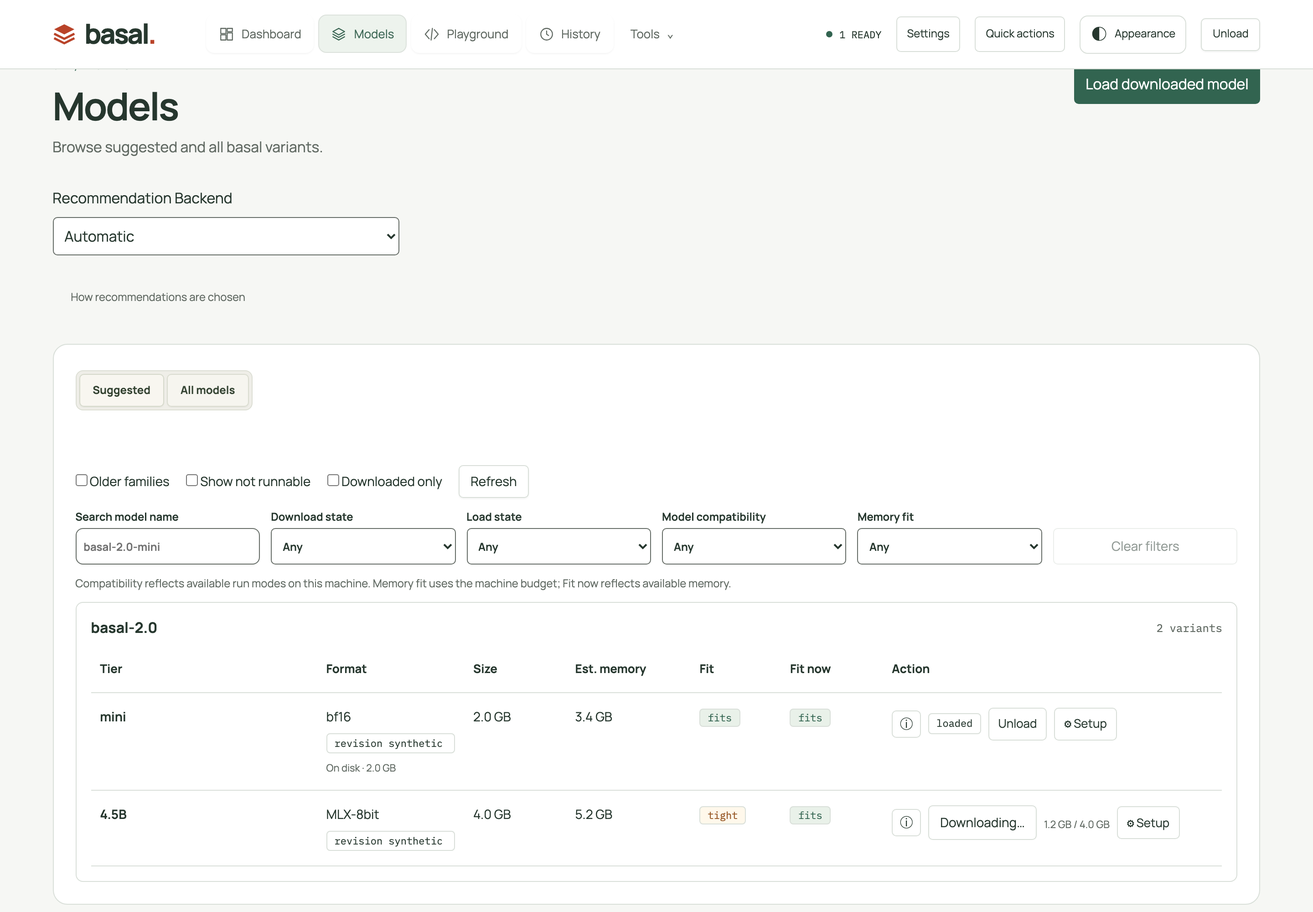
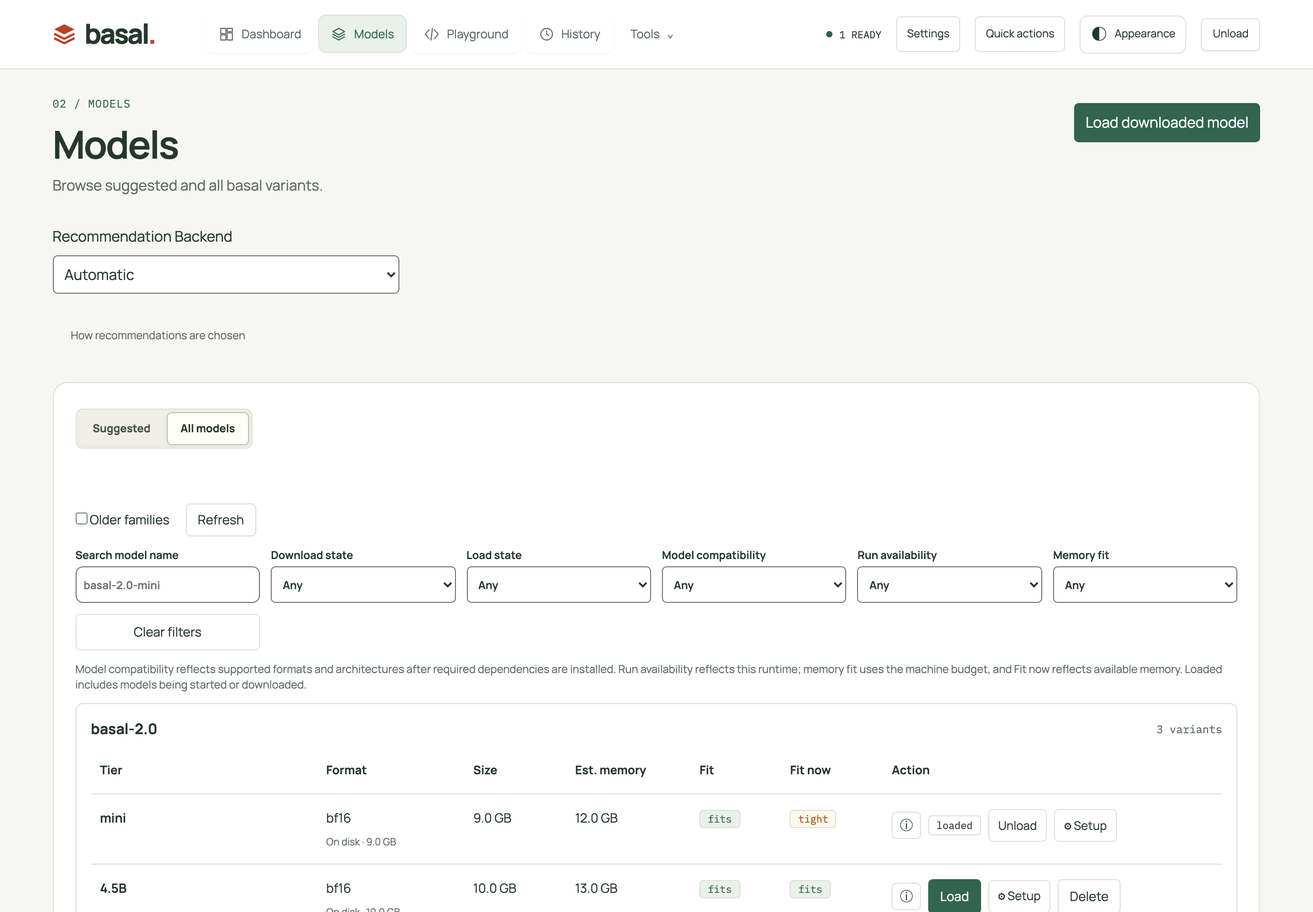
fix(models): separate compatibility from availability

diff --git a/basal_ui/static/index.html b/basal_ui/static/index.html
@@ -47,7 +47,7 @@
 <section class="view" id="dashboard" data-page="dashboard" aria-label="Dashboard"></section>
 <section class="view" id="overview" data-page="overview"><div id="updatesBanner"></div><section id="hardware" class="card hardware" aria-label="Hardware"><div><div class="section-index">HARDWARE</div><div id="deviceName" class="hardware-name">Detecting hardware…</div><div id="engines" class="chips"></div></div><div class="hardware-grid"><div class="metric"><label>Platform</label><strong id="platform">—</strong></div><div class="metric"><label>Memory budget</label><strong id="hardwareBudget">—</strong></div><div class="metric"><label>Available now</label><strong id="availableMemory">—</strong></div><div class="metric"><label>System RAM</label><strong id="systemRam">—</strong></div></div></section></section>
 <div class="view recommendation-controls" data-page="models"><label for="recommendationBackend">Recommendation Backend</label><select id="recommendationBackend"><option value="automatic">Automatic</option></select><details class="manager-help"><summary>How recommendations are chosen</summary><p>Recommendations consider machine compatibility, installed Backends, model architecture and format, estimated memory, and available memory now. They prefer official current-family checkpoints and comfortable fits; community and experimental text variants remain in All models.</p><p id="recommendationMethod">Recommendation slots use catalog format and tier heuristics, not measured benchmarks. Best quality means the largest fitting tier; fastest means the smallest tier.</p><p>Multimodal recommendations show image/audio capabilities and missing add-ons. Install required add-ons in Backends before loading with media. Saved load settings are not changed by the recommendation Backend.</p></details></div>
-<section class="view" id="models" data-page="models"><section class="card"><div class="tabs" role="tablist"><button class="btn active" id="suggestedTab" role="tab" aria-controls="suggested" aria-selected="true" data-variant="outline">Suggested</button><button class="btn" id="allModelsTab" role="tab" aria-controls="allModels" aria-selected="false" tabindex="-1" data-variant="outline">All models</button></div><div id="suggested" role="tabpanel" aria-labelledby="suggestedTab"><div class="empty">Loading suggestions…</div></div><div id="allModels" role="tabpanel" aria-labelledby="allModelsTab" hidden><div class="model-filters"><div class="controls model-filter-toggles"><label><input class="switch" id="olderToggle" type="checkbox"> Older families</label><label><input class="switch" id="notRunnableToggle" type="checkbox"> Show not runnable</label><label><input class="switch" id="downloadedToggle" type="checkbox"> Downloaded only</label><button class="btn" id="refreshModels" data-variant="outline">Refresh</button></div><div class="model-filter-fields"><div class="model-filter-control"><label for="modelSearch">Search model name</label><input class="input" id="modelSearch" type="search" placeholder="basal-2.0-mini" autocomplete="off"></div><div class="model-filter-control"><label for="modelDownloadFilter">Download state</label><select id="modelDownloadFilter"><option value="">Any</option><option value="downloaded">Downloaded</option><option value="downloading">Downloading…</option><option value="not-downloaded">Not downloaded</option></select></div><div class="model-filter-control"><label for="modelLoadFilter">Load state</label><select id="modelLoadFilter"><option value="">Any</option><option value="loaded">Loaded</option><option value="not-loaded">Not loaded</option></select></div><div class="model-filter-control"><label for="modelCompatibilityFilter">Model compatibility</label><select id="modelCompatibilityFilter"><option value="">Any</option><option value="runnable">Runnable here</option><option value="unavailable">Unavailable here</option></select></div><div class="model-filter-control"><label for="modelFitFilter">Memory fit</label><select id="modelFitFilter"><option value="">Any</option><option value="fits">Fits</option><option value="tight">Tight fit</option><option value="too_large">Too large</option><option value="unknown">Unknown</option></select></div><button class="btn outline-action" id="clearModelFilters" type="button" disabled>Clear filters</button></div><p class="model-filter-note muted">Compatibility reflects available run modes on this machine. Memory fit uses the machine budget; Fit now reflects available memory.</p></div><div id="backendModelFilterNotice" class="controls" hidden><span></span><button type="button" id="clearBackendModelFilter">Show all backends</button></div><div id="modelsTable" class="table-wrap"><div class="empty">Loading models…</div></div></div></section></section>
+<section class="view" id="models" data-page="models"><section class="card"><div class="tabs" role="tablist"><button class="btn active" id="suggestedTab" role="tab" aria-controls="suggested" aria-selected="true" data-variant="outline">Suggested</button><button class="btn" id="allModelsTab" role="tab" aria-controls="allModels" aria-selected="false" tabindex="-1" data-variant="outline">All models</button></div><div id="suggested" role="tabpanel" aria-labelledby="suggestedTab"><div class="empty">Loading suggestions…</div></div><div id="allModels" role="tabpanel" aria-labelledby="allModelsTab" hidden><div class="model-filters"><div class="controls model-filter-toggles"><label><input class="switch" id="olderToggle" type="checkbox"> Older families</label><button class="btn" id="refreshModels" data-variant="outline">Refresh</button></div><div class="model-filter-fields"><div class="model-filter-control"><label for="modelSearch">Search model name</label><input class="input" id="modelSearch" type="search" placeholder="basal-2.0-mini" autocomplete="off"></div><div class="model-filter-control"><label for="modelDownloadFilter">Download state</label><select id="modelDownloadFilter"><option value="">Any</option><option value="downloaded">Downloaded</option><option value="downloading">Downloading…</option><option value="not-downloaded">Not downloaded</option></select></div><div class="model-filter-control"><label for="modelLoadFilter">Load state</label><select id="modelLoadFilter"><option value="">Any</option><option value="loaded">Loaded</option><option value="not-loaded">Not loaded</option></select></div><div class="model-filter-control"><label for="modelCompatibilityFilter">Model compatibility</label><select id="modelCompatibilityFilter"><option value="">Any</option><option value="compatible">Compatible</option><option value="incompatible">Not compatible</option></select></div><div class="model-filter-control"><label for="modelRunAvailabilityFilter">Run availability</label><select id="modelRunAvailabilityFilter"><option value="available" selected>Available now</option><option value="unavailable">Unavailable now</option><option value="any">Any</option></select></div><div class="model-filter-control"><label for="modelFitFilter">Memory fit</label><select id="modelFitFilter"><option value="">Any</option><option value="fits">Fits</option><option value="tight">Tight fit</option><option value="too_large">Too large</option><option value="unknown">Unknown</option></select></div><button class="btn outline-action" id="clearModelFilters" type="button" disabled>Clear filters</button></div><p class="model-filter-note muted">Model compatibility reflects supported formats and architectures after required dependencies are installed. Run availability reflects this runtime; memory fit uses the machine budget, and Fit now reflects available memory. Loaded includes models being started or downloaded.</p></div><div id="backendModelFilterNotice" class="controls" hidden><span></span><button type="button" id="clearBackendModelFilter">Show all backends</button></div><div id="modelsTable" class="table-wrap"><div class="empty">Loading models…</div></div></div></section></section>
 <section class="view" id="manager" data-page="manager"><div class="manager-summary"><span id="managerLoadedCount">— loaded</span><span id="managerDiskCount">— downloaded</span><span id="managerDiskBytes">— on disk</span></div><div class="manager-tabs" role="tablist" aria-label="Model manager"><button type="button" role="tab" id="manager-tab-library" data-manager-tab="library" aria-controls="manager-library" aria-selected="true">Library</button><button type="button" role="tab" id="manager-tab-usage" data-manager-tab="usage" aria-controls="manager-usage" aria-selected="false" tabindex="-1">Usage by model</button><button type="button" role="tab" id="manager-tab-benchmarks" data-manager-tab="benchmarks" aria-controls="manager-benchmarks" aria-selected="false" tabindex="-1">Benchmarks</button><button type="button" role="tab" id="manager-tab-calibration" data-manager-tab="calibration" aria-controls="manager-calibration" aria-selected="false" tabindex="-1">Calibration</button></div>
 <section class="manager-panel" id="manager-library" role="tabpanel" aria-labelledby="manager-tab-library"><section class="card" id="inference" aria-live="polite"><div class="section-index">INFERENCE</div><div id="inferenceNow"><div class="inference-row idle"><span class="status-dot"></span><span class="muted">Idle</span></div></div></section><section class="card" id="status" aria-live="polite"><div class="section-head"><h2>Loaded models</h2></div><div id="memoryBar"></div><div id="loadedModels"><div class="empty">No model loaded</div></div></section><section class="card" id="attachCard" hidden><div class="section-head"><h2>Attach a model</h2></div><p class="muted">Attach a supported chat model to serve it through the Engine.</p><p id="attachUnavailable" class="muted" hidden>Attached models need Engine 2.5.</p><div class="controls" id="attachControls"><button type="button" id="openAttach" class="btn primary">Attach a chat model</button><button type="button" id="cancelAttach" class="btn" hidden>Cancel</button><a href="#logs/job%3Aattach">Logs</a></div><div id="attachJob" class="muted" aria-live="polite"></div><p id="attachRecovery" class="reason directory-hint" role="status" hidden></p></section><section class="card" id="decisionServers"><h2>Decision servers</h2><p class="muted">Attach a server to compare its models in Playground and Batch.</p><form id="decisionServerForm"><div class="serve-fields"><div class="field"><label for="decisionServerName">Name</label><input class="input" id="decisionServerName" required autocomplete="off"></div><div class="field"><label for="decisionServerUrl">Server URL</label><input class="input" id="decisionServerUrl" type="url" required autocomplete="url" placeholder="http://127.0.0.1:11434"></div><div class="field"><label for="decisionServerKey">API key (optional)</label><input class="input" id="decisionServerKey" type="password" autocomplete="new-password"></div></div><label id="decisionServerConsentField" hidden><input id="decisionServerConsent" type="checkbox"> <span id="decisionServerConsentText"></span></label><button type="submit" id="addDecisionServer">Attach Decision server</button><p id="decisionServerError" class="error-box" role="alert" tabindex="-1" hidden></p></form><div id="decisionServerList"></div></section><section class="card disk-list"><div class="section-head"><h2>On disk</h2></div><div id="diskModels"><div class="empty">Loading models…</div></div><div id="diskTotal" class="disk-total"></div></section></section>
 <section class="manager-panel card" id="manager-usage" role="tabpanel" aria-labelledby="manager-tab-usage" hidden><div class="manager-panel-heading"><div><h2>Usage by model</h2><p>Live counters for recorded Decisions.</p></div></div><p class="manager-usage-note">Lifetime usage is shared with Dashboard’s model activity. Recent traffic is a separate process-local window; viewing either page does not add requests.</p><div id="statsTable"></div><p class="manager-reset-note">Resetting a model or all statistics also clears matching recent traffic in this app process. Lifetime totals are shared across apps using the same settings file.</p></section>

diff --git a/basal_ui/static/app.js b/basal_ui/static/app.js
@@ -152,23 +152,23 @@ function renderModels(data) {
   const suggestions = data.suggestions || [];
   renderSuggestions(suggestions);
   const slots = new Map(suggestions.map(s => [s.id, s.slot]));
-  const older = $('#olderToggle').checked, showBad = $('#notRunnableToggle').checked, downloadedOnly = $('#downloadedToggle').checked;
+  const older = $('#olderToggle').checked, runAvailabilityFilter = $('#modelRunAvailabilityFilter').value;
   const query=$('#modelSearch').value.trim().toLowerCase(), downloadFilter=$('#modelDownloadFilter').value,
     loadFilter=$('#modelLoadFilter').value, compatibilityFilter=$('#modelCompatibilityFilter').value, fitFilter=$('#modelFitFilter').value;
-  const activeFilters=Boolean(query||downloadFilter||loadFilter||compatibilityFilter||fitFilter||older||showBad||downloadedOnly);
+  const activeFilters=Boolean(query||downloadFilter||loadFilter||compatibilityFilter||fitFilter||older||runAvailabilityFilter!=='available');
   $('#clearModelFilters').disabled=!activeFilters;
   const list = modelData.filter(m => {
-    const download=statusCache?.downloads?.[m.repo], downloading=statusCache?Boolean(download&&!download.error):null;
-    const loaded=statusCache?statusCache.models.some(x=>x.id===m.id):null;
-    const compatible=typeof m.runnable==='boolean'?(m.runnable||Boolean(m.media_mode)):m.media_mode?true:null;
+    const download=statusAvailable?statusCache?.downloads?.[m.repo]:null, downloading=statusAvailable?Boolean(download&&!download.error):null;
+    const loaded=statusAvailable?statusCache?.models.some(x=>x.id===m.id):null;
+    const compatible=m.model_compatible;
+    const runAvailable=Boolean(m.runnable||m.media_mode);
     return (!backendModelFilter||backendModelFilter.ids.has(m.id))
       && (older || !['basal-1.0','basal-1.5'].includes(m.family))
-      && (showBad || compatibilityFilter==='unavailable' || compatible)
-      && (!downloadedOnly || m.downloaded)
+      && (runAvailabilityFilter==='any' || runAvailable===(runAvailabilityFilter==='available'))
       && (!query || [m.id,m.repo,m.family,m.tier,m.label].some(value=>String(value||'').toLowerCase().includes(query)))
       && (!downloadFilter || (downloadFilter==='downloaded'?m.downloaded:downloadFilter==='downloading'?downloading===true:m.downloaded===false&&downloading===false))
       && (!loadFilter || (loadFilter==='loaded'?loaded===true:loaded===false))
-      && (!compatibilityFilter || (compatibilityFilter==='runnable'?compatible===true:compatible===false))
+      && (!compatibilityFilter || (compatibilityFilter==='compatible'?compatible===true:compatible===false))
       && (!fitFilter || (m.fit||'unknown')===fitFilter);
   });
   list.sort((a,b) => familyOrder(b.family)-familyOrder(a.family) || tierOrder(a.tier)-tierOrder(b.tier) || a.port.localeCompare(b.port));
@@ -186,9 +186,9 @@ function renderModels(data) {
       const slot = slots.get(m.id);
       const mediaReasonText = ts(m.media_reason, m.media_reason_code, m.media_reason_params);
       const mediaReason = !m.media_mode && (m.media || []).length ? `<small class="muted">${esc(mediaReasonText || '')}</small>` : '';
-      const downloadStatus=statusCache?.downloads?.[m.repo], loaded=statusCache?.models?.find(x=>x.id===m.id);
+      const downloadStatus=statusAvailable?statusCache?.downloads?.[m.repo]:null, loaded=statusAvailable?statusCache?.models?.find(x=>x.id===m.id):null;
       const downloadButton=downloadControl(m,downloadStatus);
-      const actions=`${m.downloaded?diskActions(m,false):m.attached?'':downloadButton}${m.runnable&&(!m.attached||m.downloaded)?optionsButton(m.id,false,'save'):''}${m.attached?`<button type="button" class="remove-attached destructive" data-id="${esc(m.id)}">${t('Remove')}</button>`:!loaded&&m.downloaded?deleteButton(m.id):''}`;
+      const actions=`${m.downloaded?diskActions(m,false):m.attached?'':downloadButton}${m.runnable&&(!m.attached||m.downloaded)?optionsButton(m.id,false,'save'):''}${m.attached?`<button type="button" class="remove-attached destructive" data-id="${esc(m.id)}">${t('Remove')}</button>`:statusAvailable&&!loaded&&m.downloaded?deleteButton(m.id):''}`;
       html += `<tr class="${m.runnable||m.media_mode?'':'not-runnable'}"><td class="model-tier"><span class="model-name">${esc(m.tier)}</span>${reason}${mediaReason}</td><td class="model-format">${esc(m.label)} ${m.attached?`<span class="chip">${t('Attached')}</span>`:''}${m.community?`<span class="chip">${t('community')}</span>`:''}${m.revision?`<span class="chip">${t('revision {revision}',{revision:esc(m.revision)})}</span>`:''}${m.downloaded?`<small class="model-downloaded muted">${t('On disk')}${m.downloaded_bytes==null?'':` · ${gb(m.downloaded_bytes)}`}</small>`:''}</td><td class="model-size">${gb(m.weights_bytes)}</td><td class="model-size">${gb(m.est_memory_bytes)}</td><td><span class="badge ${classes}">${esc(t(m.fit || 'unknown'))}</span></td><td><span class="badge ${nowClasses}">${esc(t(m.fit_now || 'unknown'))}</span></td><td><div class="model-actions"><button type="button" class="model-card-open" data-id="${esc(m.id)}" aria-label="${t('Model information')}">ⓘ</button>${actions}</div></td></tr>`;
     }
     html += '</tbody></table></div></section>';
@@ -272,7 +272,7 @@ function idleUnloadText(reason){return reason?.code==='idle_unload'?`<span class
 function idleUnloadMessage(reason){return tp(reason.minutes,'Unloaded after {n} idle minute at {time}','Unloaded after {n} idle minutes at {time}',{time:new Date(reason.at*1000).toLocaleString()});}
 // Model manager: load (text or media, or with options) and unload the models on disk
 function diskActions(m, details=true) {
-  const loaded=statusCache?.models?.find(x=>x.id===m.id);
+  const loaded=statusAvailable?statusCache?.models?.find(x=>x.id===m.id):null;
   if(loaded)return `<span class="chip">${esc(t(loaded.state==='ready'?'loaded':loaded.state))}</span><button type="button" class="unload-model outline-action" data-id="${esc(m.id)}">${t('Unload')}</button>`;
   if(!m.runnable&&!m.media_mode){const reason=ts(m.reason,m.reason_code,m.reason_params)||t('not runnable here');return `<span class="reason" title="${esc(reason)}">${esc(reason)}</span>`;}
   const media=m.media_mode?`<button type="button" class="load-model load-media-model" data-id="${esc(m.id)}" data-media="true" title="${esc(mediaTitle(m.media||[]))}">${t('Load with media')}</button>`:'';
@@ -593,7 +593,7 @@ async function refreshStatus() {
     const status = await api('/api/status');
     if (sequence === statusSequence) { statusFailureNotified=false; renderStatus(status); if (serveData) renderServeStatus(status); if(!$('#dashboard').hidden)refreshTraffic(); }
   } catch(e) {
-    if (sequence === statusSequence) { statusAvailable=false; $('#footerState').textContent=t('Unavailable'); $('#footerDot').className='status-dot error'; if(!statusFailureNotified){showStatusError(e.message);statusFailureNotified=true;} trafficError=e.message; trafficData=null; trafficGeneration++; trafficPending=false; renderDashboard(); clearTimeout(pollTimer); pollTimer=setTimeout(refreshStatus,5000); }
+    if (sequence === statusSequence) { statusAvailable=false; rerenderFilters(); $('#footerState').textContent=t('Unavailable'); $('#footerDot').className='status-dot error'; if(!statusFailureNotified){showStatusError(e.message);statusFailureNotified=true;} trafficError=e.message; trafficData=null; trafficGeneration++; trafficPending=false; renderDashboard(); clearTimeout(pollTimer); pollTimer=setTimeout(refreshStatus,5000); }
   }
 }
 async function loadExamples() {
@@ -1631,7 +1631,6 @@ async function sendDecision() {
 }
 $('#refreshModels').addEventListener('click',()=>loadModels(true));
 $('#recommendationBackend').onchange=event=>{recommendationBackend=event.target.value;loadModels();};
-$('#downloadedToggle').addEventListener('change',rerenderFilters);
 $('#saveModelsDir').addEventListener('click',()=>saveModelsDir($('#modelsDir').value));
 $('#defaultModelsDir').addEventListener('click',()=>saveModelsDir(null));
 let catalogData=null;
@@ -1639,12 +1638,12 @@ const originalRenderModels=renderModels;
 renderModels=function(data){catalogData=data; originalRenderModels(data);};
 function rerenderFilters(){if(catalogData&&catalogData.recommendation_backend===recommendationBackend) originalRenderModels(catalogData);}
 $('#olderToggle').addEventListener('change',rerenderFilters);
-$('#notRunnableToggle').addEventListener('change',rerenderFilters);
-['modelSearch','modelDownloadFilter','modelLoadFilter','modelCompatibilityFilter','modelFitFilter'].forEach(id=>{$(`#${id}`).addEventListener(id==='modelSearch'?'input':'change',rerenderFilters);});
+['modelSearch','modelDownloadFilter','modelLoadFilter','modelCompatibilityFilter','modelRunAvailabilityFilter','modelFitFilter'].forEach(id=>{$(`#${id}`).addEventListener(id==='modelSearch'?'input':'change',rerenderFilters);});
 function clearModelFilters(){
   $('#modelSearch').value=''; $('#modelDownloadFilter').value=''; $('#modelLoadFilter').value='';
-  $('#modelCompatibilityFilter').value=''; $('#modelFitFilter').value='';
-  ['olderToggle','notRunnableToggle','downloadedToggle'].forEach(id=>setChecked($(`#${id}`),false));
+  $('#modelCompatibilityFilter').value=''; $('#modelRunAvailabilityFilter').value='available'; $('#modelFitFilter').value='';
+  setChecked($('#olderToggle'),false);
+  backendModelFilter=null; $('#backendModelFilterNotice').hidden=true;
   rerenderFilters(); $('#modelSearch').focus();
 }
 $('#clearModelFilters').addEventListener('click',clearModelFilters);

diff --git a/basal_ui/static/i18n.js b/basal_ui/static/i18n.js
@@ -1353,9 +1353,14 @@ const PL = {
   "Runnable here": "Można uruchomić tutaj",
   "Unknown": "Nieznany",
   "Model compatibility": "Zgodność modelu",
+  "Compatible": "Zgodny",
+  "Not compatible": "Niezgodny",
+  "Run availability": "Dostępność uruchomienia",
+  "Available now": "Dostępny teraz",
+  "Unavailable now": "Niedostępny teraz",
   "Memory fit": "Dopasowanie pamięci",
   "Clear filters": "Wyczyść filtry",
-  "Compatibility reflects available run modes on this machine. Memory fit uses the machine budget; Fit now reflects available memory.": "Zgodność uwzględnia tryby dostępne na tym komputerze. Dopasowanie pamięci dotyczy budżetu komputera, a Dopasowanie teraz — dostępnej pamięci.",
+  "Model compatibility reflects supported formats and architectures after required dependencies are installed. Run availability reflects this runtime; memory fit uses the machine budget, and Fit now reflects available memory. Loaded includes models being started or downloaded.": "Zgodność modelu uwzględnia obsługiwane formaty i architektury po zainstalowaniu wymaganych zależności. Dostępność uruchomienia dotyczy tego środowiska; dopasowanie pamięci korzysta z budżetu komputera, a Dopasowanie teraz z dostępnej pamięci. Za załadowane uznaje się również modele uruchamiane lub pobierane.",
   "Unit": "Jednostka",
   "Unknown device": "Nieznane urządzenie",
   "Unload": "Zwolnij",

diff --git a/basal_ui/static/backends.js b/basal_ui/static/backends.js
@@ -100,7 +100,7 @@ $('#backendInventory').onclick=e=>{
     const b=backendInventory.backends.find(x=>x.id===models.dataset.backendModels);
     backendModelFilter={name:b.name,ids:new Set(b.models.map(m=>m.id))};
     $('#backendModelFilterNotice').hidden=false;$('#backendModelFilterNotice span').textContent=t('Models compatible with {name} after its dependencies are installed.',{name:b.name});
-    setChecked($('#olderToggle'),true);setChecked($('#notRunnableToggle'),true);setChecked($('#downloadedToggle'),false);
+    setChecked($('#olderToggle'),true);$('#modelRunAvailabilityFilter').value='any';
     rerenderFilters();showView('models',true);selectModelsTab('all');
   }
   if(test)act(()=>openBackendTest(test.dataset.backendTest));

diff --git a/tests/e2e/test_models_filters.py b/tests/e2e/test_models_filters.py
@@ -1,0 +1,143 @@
+"""Synthetic Chromium regression checks for Models catalog filters."""
+
+import signal
+import subprocess
+from pathlib import Path
+
+import pytest
+
+from tests.e2e.support import UI
+
+sync_api = pytest.importorskip("playwright.sync_api", reason="install basal[e2e] and run: playwright install chromium")
+
+
+@pytest.fixture
+def synthetic_ui(tmp_path: Path):
+    app = UI(tmp_path).start()
+    yield app
+    app.proc.send_signal(signal.SIGTERM)
+    try:
+        app.proc.wait(10)
+    except subprocess.TimeoutExpired:
+        app.proc.kill()
+        app.proc.wait()
+
+
+@pytest.fixture(scope="module")
+def browser():
+    with sync_api.sync_playwright() as playwright:
+        browser = playwright.chromium.launch()
+        yield browser
+        browser.close()
+
+
+def test_catalog_filters_keep_compatibility_and_status_distinct(browser, synthetic_ui: UI, request):
+    context = browser.new_context(viewport={"width": 1280, "height": 900})
+    request.addfinalizer(context.close)
+    page = context.new_page()
+    page.set_default_timeout(5_000)
+
+    models = [
+        {
+            "id": "missing-gguf",
+            "repo": "Synthetic/gguf",
+            "family": "basal-2.0",
+            "tier": "mini",
+            "port": "GGUF",
+            "label": "GGUF Q4",
+            "media": [],
+            "weights_bytes": 100,
+            "est_memory_bytes": 100,
+            "fit": "fits",
+            "fit_now": "fits",
+            "downloaded": True,
+            "downloaded_bytes": 100,
+            "runnable": False,
+            "model_compatible": True,
+        },
+        {
+            "id": "other-incompatible",
+            "repo": "Synthetic/other",
+            "family": "basal-2.0",
+            "tier": "small",
+            "port": "GGUF",
+            "label": "GGUF Q8",
+            "media": [],
+            "weights_bytes": 100,
+            "est_memory_bytes": 100,
+            "fit": "fits",
+            "fit_now": "fits",
+            "downloaded": False,
+            "runnable": False,
+            "model_compatible": False,
+        },
+        {
+            "id": "available",
+            "repo": "Synthetic/available",
+            "family": "basal-2.0",
+            "tier": "4.5B",
+            "port": "bf16",
+            "label": "bf16",
+            "media": [],
+            "weights_bytes": 100,
+            "est_memory_bytes": 100,
+            "fit": "fits",
+            "fit_now": "fits",
+            "downloaded": True,
+            "downloaded_bytes": 100,
+            "runnable": True,
+            "model_compatible": True,
+        },
+    ]
+    catalog = {
+        "recommendation_backend": "automatic",
+        "recommendation_backends": [{"id": "automatic", "name": "Automatic"}],
+        "recommendation_note": "",
+        "suggestions": [],
+        "models": models,
+    }
+    status = synthetic_ui.get("/api/status")
+    status.update(models=[{"id": "missing-gguf", "state": "starting"}], downloads={"Synthetic/gguf": {}})
+    page.route("**/api/models*", lambda route: route.fulfill(json=catalog))
+    page.route("**/api/status", lambda route: route.fulfill(json=status))
+    page.goto(synthetic_ui.url + "/")
+    page.wait_for_function("() => statusAvailable && modelData.length === 3")
+    page.evaluate("showView('models', true); selectModelsTab('all')")
+
+    ids = lambda: page.locator("#modelsTable .model-card-open").evaluate_all(
+        "nodes => nodes.map(node => node.dataset.id)"
+    )
+    assert ids() == ["available"]  # default visibility still hides models that cannot run now
+    page.select_option("#modelRunAvailabilityFilter", "unavailable")
+    page.select_option("#modelCompatibilityFilter", "compatible")
+    assert ids() == ["missing-gguf"]  # compatible format despite the absent llama.cpp package
+    page.select_option("#modelLoadFilter", "loaded")
+    assert ids() == ["missing-gguf"]  # starting entries count as loaded; the filter note explains this
+    page.select_option("#modelDownloadFilter", "downloading")
+    assert ids() == ["missing-gguf"]
+
+    page.route("**/api/status", lambda route: route.abort())
+    page.evaluate("refreshStatus()")
+    page.wait_for_function("() => !statusAvailable")
+    page.select_option("#modelLoadFilter", "loaded")
+    assert ids() == []  # failed polling makes the retained status snapshot unknown, not current
+    page.select_option("#modelDownloadFilter", "downloading")
+    assert ids() == []
+    page.select_option("#modelDownloadFilter", "not-downloaded")
+    assert ids() == []
+    page.select_option("#modelLoadFilter", "")
+    page.select_option("#modelDownloadFilter", "")
+    assert ids() == ["missing-gguf"]
+    assert page.locator('#modelsTable .delete-model[data-id="missing-gguf"]').count() == 0
+
+    page.evaluate(
+        """() => { backendModelFilter = {name: 'Synthetic backend', ids: new Set(['missing-gguf'])};
+          document.querySelector('#backendModelFilterNotice').hidden = false; }"""
+    )
+    page.locator("#modelSearch").fill("no-such-model")
+    page.locator("#modelsTable [data-clear-model-filters]").click()
+    assert page.evaluate("backendModelFilter") is None
+    assert page.locator("#backendModelFilterNotice").is_hidden()
+    assert ids() == ["available"]  # reset restores the default run-availability filter
+    page.set_viewport_size({"width": 320, "height": 900})
+    assert page.evaluate("document.documentElement.scrollWidth <= window.innerWidth")

diff --git a/tests/test_ui_app.py b/tests/test_ui_app.py
@@ -203,6 +203,25 @@ def test_model_api_includes_reason_and_suggestion_codes(tmp_path):
         assert card["why"] == catalog.ASSESSMENT_TEMPLATES[card["why_code"]].format(**card["why_params"])
 
 
+def test_model_api_separates_format_compatibility_from_missing_backend(tmp_path):
+    gguf = Variant(
+        "gguf",
+        "Remek/basal-2.0-mini-GGUF",
+        "basal-2.0",
+        "mini",
+        "GGUF",
+        "GGUF Q4_K_M",
+        "model-Q4_K_M.gguf",
+        100,
+        False,
+    )
+    app, _ = app_for(tmp_path, [gguf], hw=Hardware("cpu", "cpu", 1024**4, None, None, frozenset()))
+    with TestClient(app, base_url="http://127.0.0.1") as client:
+        model = client.get("/api/models").json()["models"][0]
+    assert model["model_compatible"] is True
+    assert model["runnable"] is False and "basal[gguf]" in model["reason"]
+
+
 def test_model_api_filters_installed_backends_and_rejects_unknown_choices(tmp_path):
     app, _ = app_for(tmp_path, [MINI])
     with TestClient(app, base_url="http://127.0.0.1") as client:

diff --git a/basal_ui/app.py b/basal_ui/app.py
@@ -1267,6 +1267,13 @@ def create_app(
             "local_dir",
         )
         on_disk = {a.variant.id: catalog.downloaded_bytes(a.variant, cache_dir) for a in baseline}
+        compatible = {
+            a.variant.id: any(
+                backends.machine_reason(key, current_hw) is None and backends.matching_modes(key, a.variant, current_hw)
+                for key in backends.BACKENDS
+            )
+            for a in baseline
+        }
         return {
             "source": source,
             "recommendation_backends": installed,
@@ -1281,6 +1288,7 @@ def create_app(
                 {
                     **{k: getattr(a.variant, k) for k in fields},
                     "runnable": a.runnable and (a.variant.family != "attached" or engine.feature("attach")),
+                    "model_compatible": compatible[a.variant.id],
                     "reason": "attached models need engine 2.5"
                     if a.variant.family == "attached" and not engine.feature("attach")
                     else a.reason,

diff --git a/docs/API.md b/docs/API.md
@@ -31,7 +31,9 @@ Replay preserves question fields; media redaction can prevent Replay. OpenAI Dec
 `GET /api/models?backend=automatic` returns the model catalog and suggestions. `recommendation_backends` contains
 `{id,name}` choices for Automatic and detected machine-compatible local Backends; `recommendation_backend` is the
 selected id. Unknown/unavailable ids return 400. The existing `models` rows keep their normal assessment; selecting
-a Backend changes `suggestions`, not Saved load settings or the global catalog filter.
+a Backend changes `suggestions`, not Saved load settings or the global catalog filter. Each row's `model_compatible`
+reports whether this machine supports its architecture and format with a Backend after dependencies are installed;
+it is distinct from current `runnable` status and memory `fit`.
 
 `GET /api/calibrations?id=…` lists each file’s `layout`, the active or saved layout in `shipped.context`, `layout_mismatch` and its message code, the model `default_layout`, and the `calibrate_layout` Engine capability. `POST /api/calibrate` uses that active or saved layout and returns `calibration_layout_unsupported` if the Engine lacks the required layout flag, including a canonical override of a non-canonical model default. Refit uses the original file layout and returns `calibration_rows_layout_unknown` when its paired calibration cannot establish that layout. Saved-row refits work without the model snapshot, reject known identity contradictions, and honor the requested comparison; when a legacy row header lacks revision, the paired calibration’s declared revision is trusted, not independently verified. `calibration_rows_baseline_unavailable` reports an unreadable baseline. Mismatched baseline thresholds are excluded using Engine semantics. Model listings expose `has_calibration_rows` so those refits remain reachable.
 Each calibration listing, fit, and model-card shipped calibration uses one snapshot of the active or saved load settings for revision, mode, and layout. Invalid or non-object model layout metadata leaves `default_layout` null and reports `shipped.error`; fitted files remain available in the listing.

diff --git a/docs/WHATS_NEW.md b/docs/WHATS_NEW.md
@@ -4,7 +4,7 @@ This release adds model orchestration, scheduled inference, and new ways to buil
 
 ## Models and inference
 
-- Filter **All models** by name, download/load state, run availability, and budget memory fit; clear all filters in one action. Setup and Unload now use the shared secondary-action styling.
+- Filter **All models** by name, download/load state, model compatibility, run availability and memory fit; clear all filters in one action. Setup and Unload use the shared secondary-action styling.
 - Create named escalation and Blend [Cascades](USAGE.md#cascades) from ready local models. Escalation supports an
   optional chat fallback. Playground and API responses identify the answering tier. Blend and fallback answers carry
   no automation certificate. Escalation without fallback also works in Batch.
